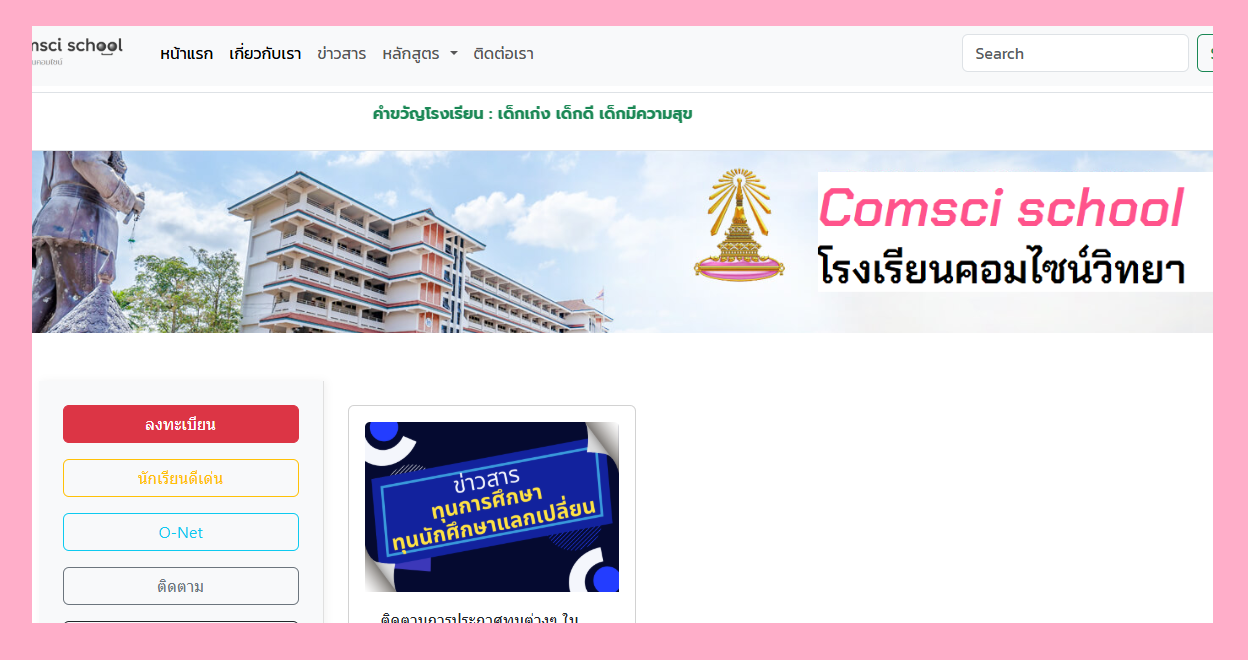
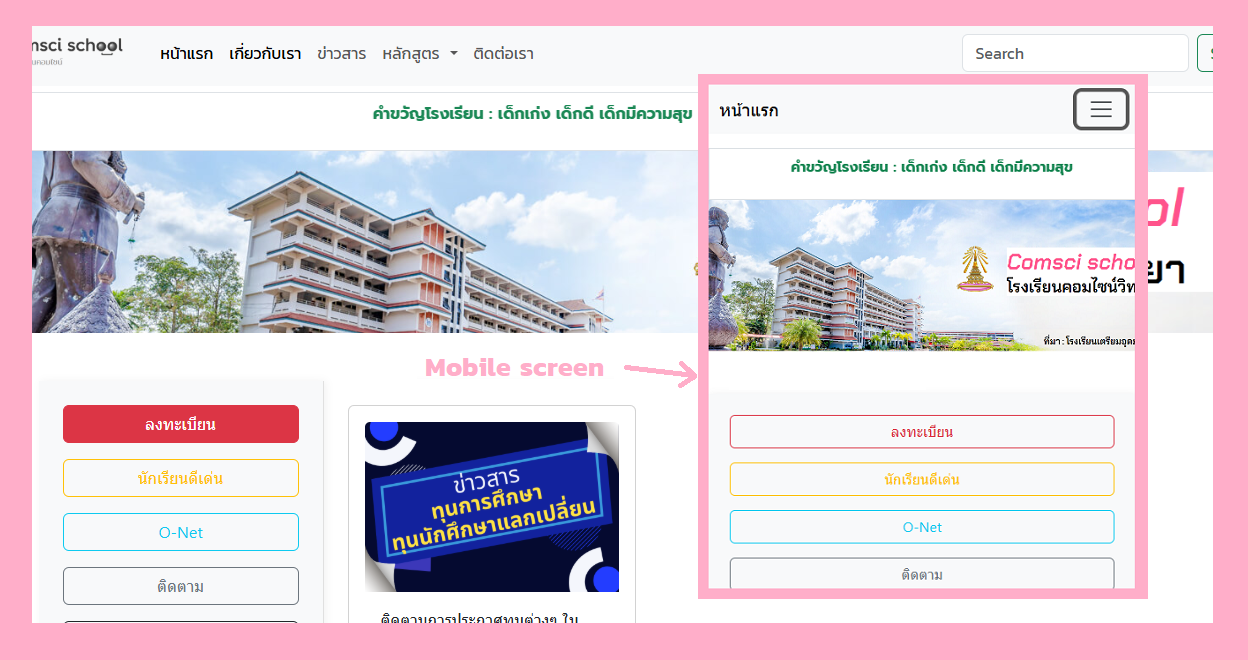
add level7 and 7.5

Changed region(s): [[0.3438, 0.0909, 0.9375, 0.9091], [0.6875, 0.697, 0.7812, 0.7576], [0.7188, 0.6364, 0.7812, 0.6667]]

diff --git a/src/component/Journey.jsx b/src/component/Journey.jsx
@@ -7,8 +7,10 @@ import lv2 from '../assets/011.png'
 import lv3 from '../assets/02.png'
 import lv4 from '../assets/033.png'
 import lv5 from '../assets/04.png'
+
 import lv6 from '../assets/05.png'
 import lv7 from '../assets/06.png'
+import lv7_2 from '../assets/056.png'
 import lv8 from '../assets/07.png'
 import lv9 from '../assets/09.png'
 import lv10 from '../assets/10.png'
@@ -30,7 +32,8 @@ const Journey = () => {
         { version: "Level 4", link: "https://github.com/SmileCat42/WebProgramming/tree/master/Project1_JSP/web/Chapter5_MySQL", title: "CRUD", desc: "เริ่มเข้าสู่โลกของ Backend โดยการให้เว็ปคุยกับฐานข้อมูล MySQL เบื้องต้น ฝึกออกแบบสร้าง CRUD แบบพื้นฐาน ได้แก่ Create, Read, Update และ Delete", date: "Dec 2025", img: lv4 },
         { version: "Level 5", link: "https://github.com/SmileCat42/WebProgramming/tree/master/Project1_JSP/web/Chapter7_Bootstrap", title: "Framwork", desc: "ออกแบบโฮมเพจเวอร์ชั่น 4 มีการใช้ Framwork Bootstrap เข้ามาช่วยออกแบบ", date: "Dec 2025", img: lv5 },
         { version: "Level 6", link: "https://github.com/SmileCat42/WebProgramming/tree/master/Project1_JSP/web/Chapter8_MVC", title: "MVC", desc: "เรียนรู้การออกแบบโครงสร้าง Backend การทำ CRUD ด้วย MVC โดยการแบ่งแยกหน้าที่แต่ละส่วนอย่างชัดเจน ได้แก่ Controller, DAO, Model และ Util ที่เชื่อมกับ MySQL", date: "Dec 2025", img: lv6 },
-        { version: "Level 7", link: "https://github.com/SmileCat42/WebProgramming/blob/master/Project1_JSP/web/FrontPageF_G.jsp", title: "⭐Project JSP", desc: "ลงมือทำมินิโปรเจคด้วยตนเอง จากเดิมเว็ปโรงเรียนแบบ StaticWeb กลายเป็นเว็ปเรียนออนไลน์แบบ DynamicWeb ซึ่งออกแบบสำหรับลูกค้าเข้ามาใช้งาน โดยที่จะได้ตอบโจทย์กับการเล่นระบบ CRUD กับฐานข้อมูลมากขึ้น มีการใช้หลักการ AJAX, Transaction เข้ามาออกแบบระบบหลังบ้าน ทำให้การรับส่งข้อมูลไหลลื่นขึ้น", date: "Jan 2026", img: lv7 },
+        { version: "Level 7", link: "https://github.com/SmileCat42/WebProgramming/tree/master/Project1_JSP/web/Chapter7_Bootstrap", title: "Version Final", desc: "ออกแบบโฮมเพจเวอร์ชั่น 5 ซึ่งกับมาใช้งานกับโปรเจคแรก", date: "Dec 2025", img: lv7_2 },
+        { version: "Level 7.5", link: "https://github.com/SmileCat42/WebProgramming/blob/master/Project1_JSP/web/FrontPageF_G.jsp", title: "⭐Project JSP", desc: "ลงมือทำมินิโปรเจคด้วยตนเอง จากเดิมเว็ปโรงเรียนแบบ StaticWeb กลายเป็นเว็ปเรียนออนไลน์แบบ DynamicWeb ซึ่งออกแบบสำหรับลูกค้าเข้ามาใช้งาน โดยที่จะได้ตอบโจทย์กับการเล่นระบบ CRUD กับฐานข้อมูลมากขึ้น มีการใช้หลักการ AJAX, Transaction เข้ามาออกแบบระบบหลังบ้าน ทำให้การรับส่งข้อมูลไหลลื่นขึ้น", date: "Jan 2026", img: lv7 },
         { version: "Level 8", link: "https://github.com/SmileCat42/WebProgramming/tree/master/Project2_JSF/src/main/webapp", title: "⭐Project JSF", desc: "เป็นอีก 1 โปรเจคที่ทำด้วย Jakarta Servlet Face จากเดิมโปรเจค JSP จะรองรับให้ผู้เรียนจองที่นั่ง จะเพิ่มหรือลดหรือแก้ไขได้แค่ภายในบัญชีของตนเองเท่านั้น แต่โปรเจคนี้จะออกแบบมาสำหรับ Admin สำหรับจัดการผลิตภัณฑ์โดยตรงซึ่งก็คือวิชาเรียน โดยสามารถทำการเพิ่มลบแก้ไขรายวิชาได้โดยตรง มีการใช้ Programmatic view, Cookie, HTTPS และ LMS เข้ามาเล่นกับโปรเจคนี้", date: "Feb 2026", img: lv8 },
         { version: "Level 9", link: "https://github.com/SmileCat42/WebProgramming/tree/master/Project3_Nestjs", title: "⭐ Nest.js", desc: "โปรเจคนี้ทำด้วย Nest.js และ EJS ในการทำเว็ปร้านขายตุ๊กตาและพวงกุญแจ มีการกำหนด Role บนฐานข้อมูลว่าใครมีสิทธิ์ในการแค่ดูหรือจัดการสินค้าได้บ้าง", date: "Mar 2025", img: lv9 },
         { version: "Level 10", link: "https://github.com/SmileCat42/WebProgramming/tree/master/Project3_Nestjs", title: "JWT,SEO,CMS,HTTPS", desc: "โปรเจคเดิม Nest.js ได้มีการต่อยอดถึงความเป็นมืออาชีพ กอล์ฟได้มีการเพิ่มหลักการ JWT หรือการสร้าง Token ในการปกป้องข้อมูลผู้ใช้และ SEO ได้มีการประเมินจาก Lighthouse ได้ถึง 91 คะแนน ช่วยให้ค้นหาเพจได้เจอง่ายขึ้น อีกทั้งมีการสร้าง CMS ด้วย Wordpress ด้วยหน้าเพจสาขา 2 สุดท้ายสามารถรันแบบ HTTPS ได้สำเร็จบน NGROK", date: "Mar 2025", img: lv10 },
@@ -152,7 +155,7 @@ const Journey = () => {
                     </h3>
 
                     <p className="mt-6 text-gray-700 italic">
-                        "เมล็ดพันธุ์แห่งการเรียนรู้ไม่มีวันหยุดพัก... เจอกันเร็วๆ นี้"
+                        "การเรียนรู้ไม่มีที่สิ้นสุด... เจอกันเร็วๆ นี้"
                     </p>
 
                     <div className="flex justify-center gap-4 mt-8">
